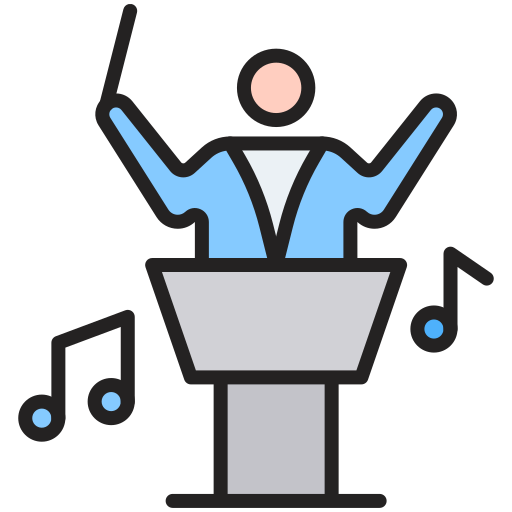
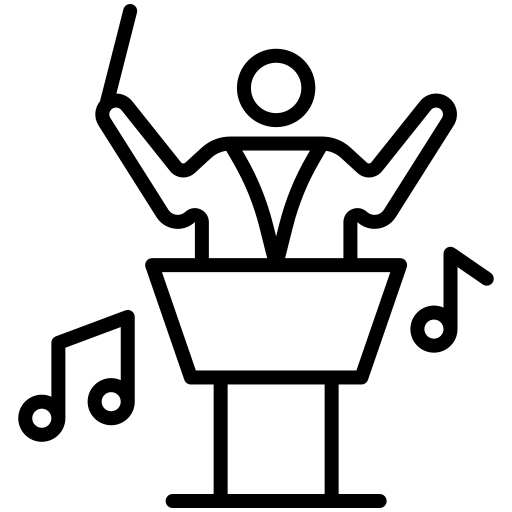
deck: the transparent conductor; the pictures are simply inverted on the dark theme

diff --git a/deck/src/slides/08d-orchestration.svelte b/deck/src/slides/08d-orchestration.svelte
@@ -35,27 +35,22 @@
     min-width: 0;
   }
 
-  /* the pictures are coloured line art on white: grayscale and a hard
-     contrast make them black and white, multiply drops the white on the light
-     theme, and inverted plus screen does the same on the dark one */
+  /* the pictures are black line art on transparent: on the dark theme they
+     are inverted, so the lines come out light */
   .pic {
     flex: none;
     width: clamp(6.5rem, 13vw, 11rem);
     height: auto;
     margin-top: 0.3rem;
-    filter: grayscale(1) contrast(4);
-    mix-blend-mode: multiply;
   }
 
   :global([data-theme='dark']) .pic {
-    filter: grayscale(1) contrast(4) invert(1);
-    mix-blend-mode: screen;
+    filter: invert(1);
   }
 
   @media (prefers-color-scheme: dark) {
     :global(:root:not([data-theme='light'])) .pic {
-      filter: grayscale(1) contrast(4) invert(1);
-      mix-blend-mode: screen;
+      filter: invert(1);
     }
   }
 
